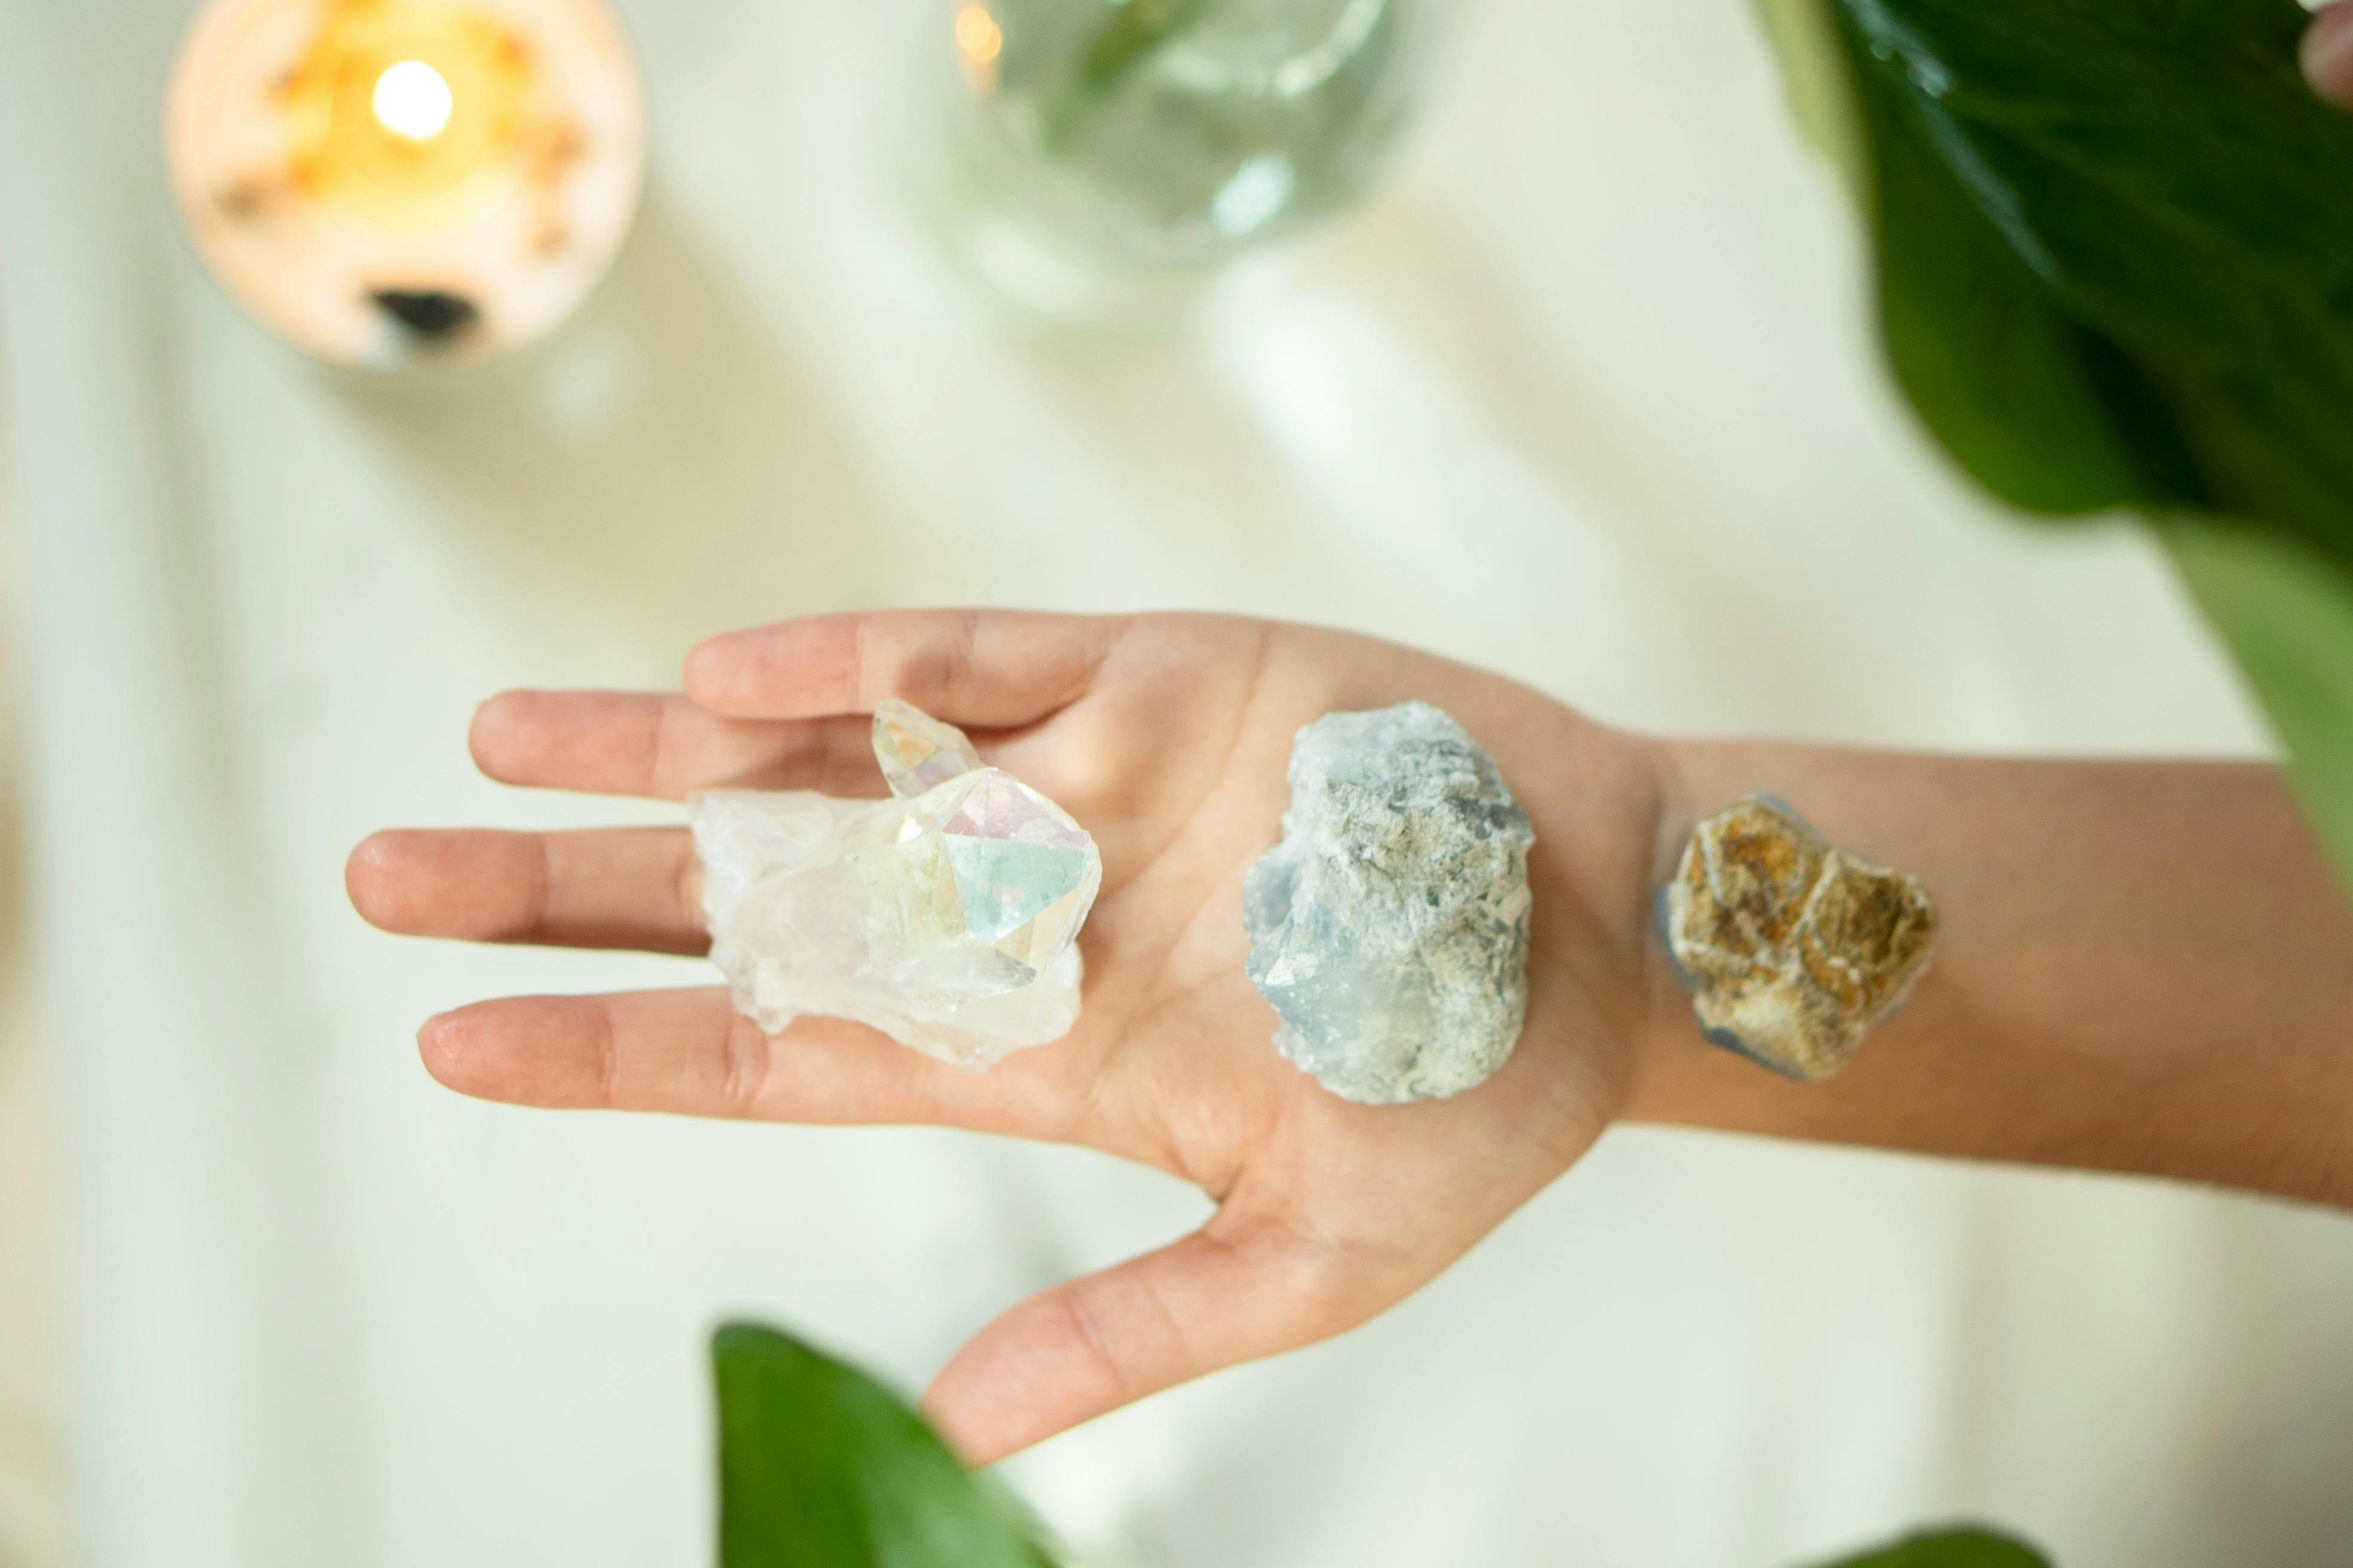
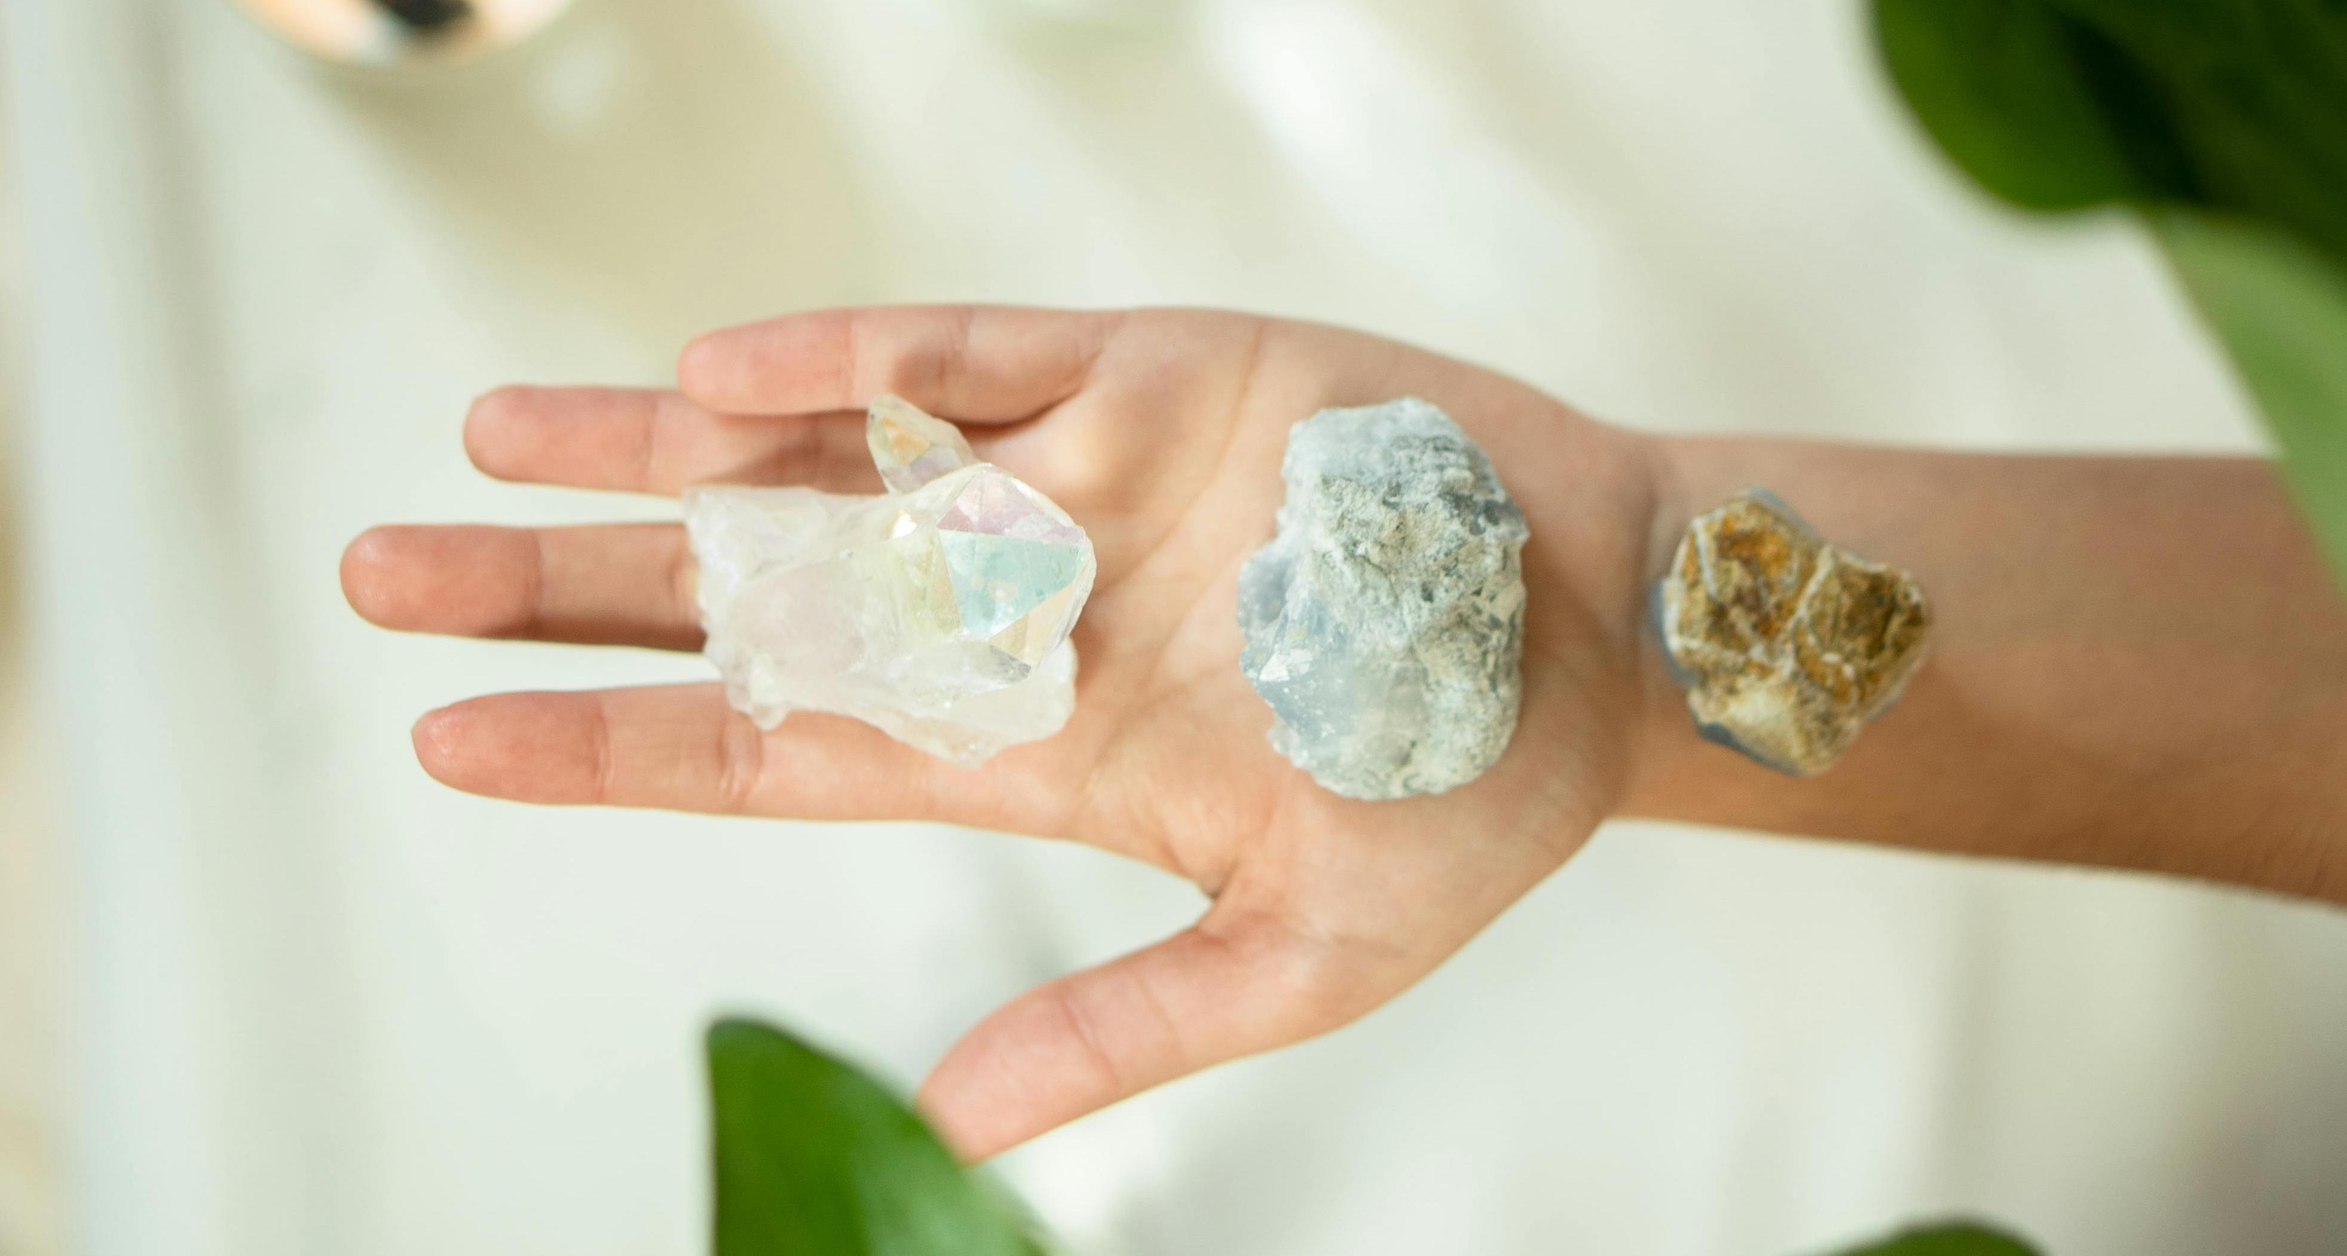
adjust sizing on hero image

diff --git a/components/Hero.js b/components/Hero.js
@@ -3,8 +3,8 @@ import React from 'react'
 
 function Hero() {
 	return (
-		<VStack flex={1}>
-			<Image p={4} maxH={{ md: 500 }} alt='image of crystals' src={'/crystals.jpg'}></Image>
+		<VStack flex={1} spacing={0}>
+			<Image alt='image of crystals' src={'/crystals.jpg'}></Image>
 			<Text>
 				Photo by Olha Ruskykh:
 				{/* https://www.pexels.com/photo/close-up-photo-of-crystal-stones-on-a-person-s-hand-6954663/ */}

diff --git a/src/app/layout.js b/src/app/layout.js
@@ -23,7 +23,6 @@ export default function RootLayout({ children }) {
 					bg={'white'}
 					p={'0'}
 					overflowX={'hidden'}
-					minH={'100vh'}
 				>
 					<body className={inter.className}>{children}</body>
 				</VStack>
